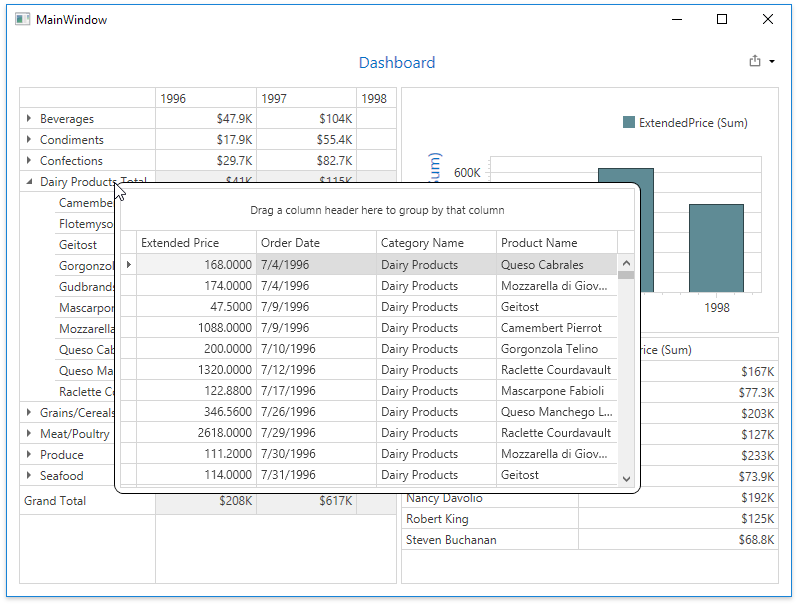
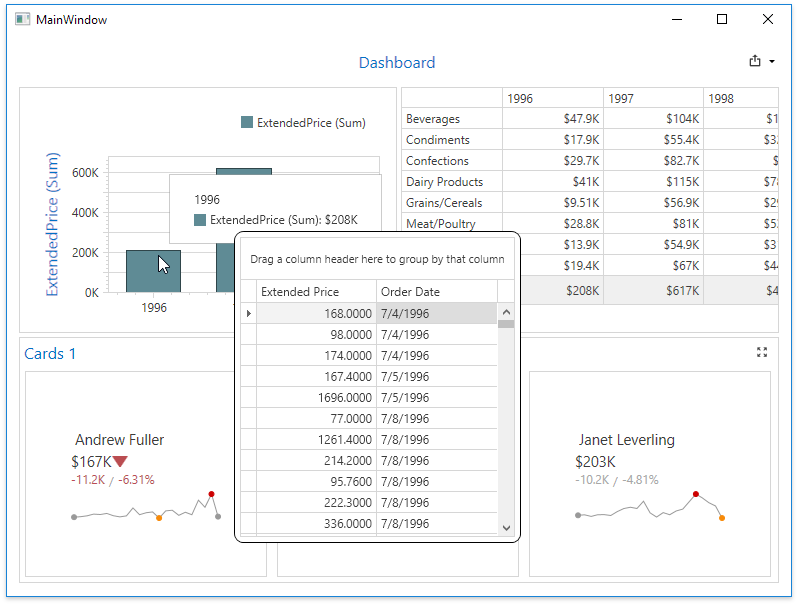
Dashboard update

diff --git a/CS/Dashboard_UnderlyingDataWPF/SalesDashboard.Designer.cs b/CS/Dashboard_UnderlyingDataWPF/SalesDashboard.Designer.cs
@@ -31,36 +31,39 @@
             DevExpress.DashboardCommon.Dimension dimension1 = new DevExpress.DashboardCommon.Dimension();
             DevExpress.DashboardCommon.Measure measure1 = new DevExpress.DashboardCommon.Measure();
             DevExpress.DashboardCommon.Dimension dimension2 = new DevExpress.DashboardCommon.Dimension();
+            DevExpress.DashboardCommon.CalculatedField calculatedField1 = new DevExpress.DashboardCommon.CalculatedField();
             DevExpress.DashboardCommon.Dimension dimension3 = new DevExpress.DashboardCommon.Dimension();
-            DevExpress.DashboardCommon.Dimension dimension4 = new DevExpress.DashboardCommon.Dimension();
             DevExpress.DashboardCommon.Measure measure2 = new DevExpress.DashboardCommon.Measure();
             DevExpress.DashboardCommon.ChartPane chartPane1 = new DevExpress.DashboardCommon.ChartPane();
             DevExpress.DashboardCommon.SimpleSeries simpleSeries1 = new DevExpress.DashboardCommon.SimpleSeries();
-            DevExpress.DashboardCommon.Dimension dimension5 = new DevExpress.DashboardCommon.Dimension();
-            DevExpress.DashboardCommon.GridDimensionColumn gridDimensionColumn1 = new DevExpress.DashboardCommon.GridDimensionColumn();
             DevExpress.DashboardCommon.Measure measure3 = new DevExpress.DashboardCommon.Measure();
-            DevExpress.DashboardCommon.GridMeasureColumn gridMeasureColumn1 = new DevExpress.DashboardCommon.GridMeasureColumn();
+            DevExpress.DashboardCommon.Measure measure4 = new DevExpress.DashboardCommon.Measure();
+            DevExpress.DashboardCommon.Card card1 = new DevExpress.DashboardCommon.Card();
+            DevExpress.DashboardCommon.CardCompactLayoutTemplate cardCompactLayoutTemplate1 = new DevExpress.DashboardCommon.CardCompactLayoutTemplate();
+            DevExpress.DashboardCommon.Dimension dimension4 = new DevExpress.DashboardCommon.Dimension();
+            DevExpress.DashboardCommon.Dimension dimension5 = new DevExpress.DashboardCommon.Dimension();
             DevExpress.DashboardCommon.DashboardLayoutGroup dashboardLayoutGroup1 = new DevExpress.DashboardCommon.DashboardLayoutGroup();
-            DevExpress.DashboardCommon.DashboardLayoutItem dashboardLayoutItem1 = new DevExpress.DashboardCommon.DashboardLayoutItem();
             DevExpress.DashboardCommon.DashboardLayoutGroup dashboardLayoutGroup2 = new DevExpress.DashboardCommon.DashboardLayoutGroup();
+            DevExpress.DashboardCommon.DashboardLayoutItem dashboardLayoutItem1 = new DevExpress.DashboardCommon.DashboardLayoutItem();
             DevExpress.DashboardCommon.DashboardLayoutItem dashboardLayoutItem2 = new DevExpress.DashboardCommon.DashboardLayoutItem();
             DevExpress.DashboardCommon.DashboardLayoutItem dashboardLayoutItem3 = new DevExpress.DashboardCommon.DashboardLayoutItem();
             this.pivotDashboardItem1 = new DevExpress.DashboardCommon.PivotDashboardItem();
             this.dashboardExtractDataSource1 = new DevExpress.DashboardCommon.DashboardExtractDataSource();
             this.chartDashboardItem1 = new DevExpress.DashboardCommon.ChartDashboardItem();
-            this.gridDashboardItem1 = new DevExpress.DashboardCommon.GridDashboardItem();
+            this.cardDashboardItem1 = new DevExpress.DashboardCommon.CardDashboardItem();
             ((System.ComponentModel.ISupportInitialize)(this.pivotDashboardItem1)).BeginInit();
             ((System.ComponentModel.ISupportInitialize)(dimension1)).BeginInit();
             ((System.ComponentModel.ISupportInitialize)(measure1)).BeginInit();
             ((System.ComponentModel.ISupportInitialize)(dimension2)).BeginInit();
-            ((System.ComponentModel.ISupportInitialize)(dimension3)).BeginInit();
             ((System.ComponentModel.ISupportInitialize)(this.dashboardExtractDataSource1)).BeginInit();
             ((System.ComponentModel.ISupportInitialize)(this.chartDashboardItem1)).BeginInit();
-            ((System.ComponentModel.ISupportInitialize)(dimension4)).BeginInit();
+            ((System.ComponentModel.ISupportInitialize)(dimension3)).BeginInit();
             ((System.ComponentModel.ISupportInitialize)(measure2)).BeginInit();
-            ((System.ComponentModel.ISupportInitialize)(this.gridDashboardItem1)).BeginInit();
-            ((System.ComponentModel.ISupportInitialize)(dimension5)).BeginInit();
+            ((System.ComponentModel.ISupportInitialize)(this.cardDashboardItem1)).BeginInit();
             ((System.ComponentModel.ISupportInitialize)(measure3)).BeginInit();
+            ((System.ComponentModel.ISupportInitialize)(measure4)).BeginInit();
+            ((System.ComponentModel.ISupportInitialize)(dimension4)).BeginInit();
+            ((System.ComponentModel.ISupportInitialize)(dimension5)).BeginInit();
             ((System.ComponentModel.ISupportInitialize)(this)).BeginInit();
             // 
             // pivotDashboardItem1
@@ -71,40 +74,41 @@
             this.pivotDashboardItem1.ComponentName = "pivotDashboardItem1";
             measure1.DataMember = "ExtendedPrice";
             dimension2.DataMember = "CategoryName";
-            dimension3.DataMember = "ProductName";
             this.pivotDashboardItem1.DataItemRepository.Clear();
             this.pivotDashboardItem1.DataItemRepository.Add(measure1, "DataItem0");
             this.pivotDashboardItem1.DataItemRepository.Add(dimension1, "DataItem1");
             this.pivotDashboardItem1.DataItemRepository.Add(dimension2, "DataItem2");
-            this.pivotDashboardItem1.DataItemRepository.Add(dimension3, "DataItem3");
             this.pivotDashboardItem1.DataSource = this.dashboardExtractDataSource1;
             this.pivotDashboardItem1.InteractivityOptions.IgnoreMasterFilters = false;
             this.pivotDashboardItem1.LayoutType = DevExpress.DashboardCommon.PivotLayoutType.Compact;
             this.pivotDashboardItem1.Name = "Pivot 1";
             this.pivotDashboardItem1.Rows.AddRange(new DevExpress.DashboardCommon.Dimension[] {
-            dimension2,
-            dimension3});
+            dimension2});
             this.pivotDashboardItem1.ShowCaption = false;
             this.pivotDashboardItem1.Values.AddRange(new DevExpress.DashboardCommon.Measure[] {
             measure1});
             // 
             // dashboardExtractDataSource1
             // 
+            calculatedField1.Expression = "[Quantity] * [UnitPrice]";
+            calculatedField1.Name = "RegularPrice";
+            this.dashboardExtractDataSource1.CalculatedFields.AddRange(new DevExpress.DashboardCommon.CalculatedField[] {
+            calculatedField1});
             this.dashboardExtractDataSource1.ComponentName = "dashboardExtractDataSource1";
             this.dashboardExtractDataSource1.FileName = "|DataDirectory|\\Data\\NWind_SalesPerson.dat";
             this.dashboardExtractDataSource1.Name = "Extract Data Source 1";
             // 
             // chartDashboardItem1
             // 
-            dimension4.DataMember = "OrderDate";
+            dimension3.DataMember = "OrderDate";
             this.chartDashboardItem1.Arguments.AddRange(new DevExpress.DashboardCommon.Dimension[] {
-            dimension4});
+            dimension3});
             this.chartDashboardItem1.AxisX.TitleVisible = false;
             this.chartDashboardItem1.ComponentName = "chartDashboardItem1";
             measure2.DataMember = "ExtendedPrice";
             this.chartDashboardItem1.DataItemRepository.Clear();
             this.chartDashboardItem1.DataItemRepository.Add(measure2, "DataItem0");
-            this.chartDashboardItem1.DataItemRepository.Add(dimension4, "DataItem1");
+            this.chartDashboardItem1.DataItemRepository.Add(dimension3, "DataItem1");
             this.chartDashboardItem1.DataSource = this.dashboardExtractDataSource1;
             this.chartDashboardItem1.InteractivityOptions.IgnoreMasterFilters = false;
             this.chartDashboardItem1.Name = "Chart 1";
@@ -122,25 +126,60 @@
             chartPane1});
             this.chartDashboardItem1.ShowCaption = false;
             // 
-            // gridDashboardItem1
+            // cardDashboardItem1
             // 
-            dimension5.DataMember = "SalesPerson";
-            gridDimensionColumn1.WidthType = DevExpress.DashboardCommon.GridColumnFixedWidthType.Weight;
-            gridDimensionColumn1.AddDataItem("Dimension", dimension5);
             measure3.DataMember = "ExtendedPrice";
-            gridMeasureColumn1.WidthType = DevExpress.DashboardCommon.GridColumnFixedWidthType.Weight;
-            gridMeasureColumn1.AddDataItem("Measure", measure3);
-            this.gridDashboardItem1.Columns.AddRange(new DevExpress.DashboardCommon.GridColumnBase[] {
-            gridDimensionColumn1,
-            gridMeasureColumn1});
-            this.gridDashboardItem1.ComponentName = "gridDashboardItem1";
-            this.gridDashboardItem1.DataItemRepository.Clear();
-            this.gridDashboardItem1.DataItemRepository.Add(measure3, "DataItem1");
-            this.gridDashboardItem1.DataItemRepository.Add(dimension5, "DataItem0");
-            this.gridDashboardItem1.DataSource = this.dashboardExtractDataSource1;
-            this.gridDashboardItem1.InteractivityOptions.IgnoreMasterFilters = false;
-            this.gridDashboardItem1.Name = "Grid 1";
-            this.gridDashboardItem1.ShowCaption = false;
+            measure4.DataMember = "RegularPrice";
+            card1.DeltaOptions.ResultIndicationThreshold = new decimal(new int[] {
+            5,
+            0,
+            0,
+            0});
+            card1.LayoutDeltaOptions.ResultIndicationThreshold = new decimal(new int[] {
+            5,
+            0,
+            0,
+            0});
+            cardCompactLayoutTemplate1.BottomSubValue1.DimensionIndex = 0;
+            cardCompactLayoutTemplate1.BottomSubValue1.ValueType = DevExpress.DashboardCommon.CardRowDataElementType.AbsoluteVariation;
+            cardCompactLayoutTemplate1.BottomSubValue1.Visible = true;
+            cardCompactLayoutTemplate1.BottomSubValue2.DimensionIndex = 0;
+            cardCompactLayoutTemplate1.BottomSubValue2.ValueType = DevExpress.DashboardCommon.CardRowDataElementType.PercentVariation;
+            cardCompactLayoutTemplate1.BottomSubValue2.Visible = true;
+            cardCompactLayoutTemplate1.BottomValue.DimensionIndex = 0;
+            cardCompactLayoutTemplate1.BottomValue.ValueType = DevExpress.DashboardCommon.CardRowDataElementType.ActualValue;
+            cardCompactLayoutTemplate1.BottomValue.Visible = true;
+            cardCompactLayoutTemplate1.DeltaIndicator.Visible = true;
+            cardCompactLayoutTemplate1.MainValue.DimensionIndex = 0;
+            cardCompactLayoutTemplate1.MainValue.ValueType = DevExpress.DashboardCommon.CardRowDataElementType.Title;
+            cardCompactLayoutTemplate1.MainValue.Visible = true;
+            cardCompactLayoutTemplate1.MaxWidth = 150;
+            cardCompactLayoutTemplate1.MinWidth = 125;
+            cardCompactLayoutTemplate1.Sparkline.Visible = true;
+            cardCompactLayoutTemplate1.SubValue.DimensionIndex = 0;
+            cardCompactLayoutTemplate1.SubValue.ValueType = DevExpress.DashboardCommon.CardRowDataElementType.Subtitle;
+            cardCompactLayoutTemplate1.SubValue.Visible = true;
+            card1.LayoutTemplate = cardCompactLayoutTemplate1;
+            card1.AddDataItem("ActualValue", measure3);
+            card1.AddDataItem("TargetValue", measure4);
+            this.cardDashboardItem1.Cards.AddRange(new DevExpress.DashboardCommon.Card[] {
+            card1});
+            this.cardDashboardItem1.ComponentName = "cardDashboardItem1";
+            dimension4.DataMember = "SalesPerson";
+            dimension5.DataMember = "OrderDate";
+            dimension5.DateTimeGroupInterval = DevExpress.DashboardCommon.DateTimeGroupInterval.MonthYear;
+            this.cardDashboardItem1.DataItemRepository.Clear();
+            this.cardDashboardItem1.DataItemRepository.Add(measure4, "DataItem0");
+            this.cardDashboardItem1.DataItemRepository.Add(measure3, "DataItem1");
+            this.cardDashboardItem1.DataItemRepository.Add(dimension4, "DataItem3");
+            this.cardDashboardItem1.DataItemRepository.Add(dimension5, "DataItem2");
+            this.cardDashboardItem1.DataSource = this.dashboardExtractDataSource1;
+            this.cardDashboardItem1.InteractivityOptions.IgnoreMasterFilters = false;
+            this.cardDashboardItem1.Name = "Cards 1";
+            this.cardDashboardItem1.SeriesDimensions.AddRange(new DevExpress.DashboardCommon.Dimension[] {
+            dimension4});
+            this.cardDashboardItem1.ShowCaption = true;
+            this.cardDashboardItem1.SparklineArgument = dimension5;
             // 
             // SalesDashboard
             // 
@@ -148,38 +187,39 @@
             this.dashboardExtractDataSource1});
             this.Items.AddRange(new DevExpress.DashboardCommon.DashboardItem[] {
             this.pivotDashboardItem1,
-            this.gridDashboardItem1,
-            this.chartDashboardItem1});
-            dashboardLayoutItem1.DashboardItem = this.pivotDashboardItem1;
-            dashboardLayoutItem1.Weight = 49.921752738654149D;
-            dashboardLayoutItem2.DashboardItem = this.chartDashboardItem1;
-            dashboardLayoutItem2.Weight = 49.876543209876544D;
-            dashboardLayoutItem3.DashboardItem = this.gridDashboardItem1;
-            dashboardLayoutItem3.Weight = 50.123456790123456D;
+            this.chartDashboardItem1,
+            this.cardDashboardItem1});
+            dashboardLayoutItem1.DashboardItem = this.chartDashboardItem1;
+            dashboardLayoutItem1.Weight = 50D;
+            dashboardLayoutItem2.DashboardItem = this.pivotDashboardItem1;
+            dashboardLayoutItem2.Weight = 50D;
             dashboardLayoutGroup2.ChildNodes.AddRange(new DevExpress.DashboardCommon.DashboardLayoutNode[] {
-            dashboardLayoutItem2,
-            dashboardLayoutItem3});
-            dashboardLayoutGroup2.DashboardItem = null;
-            dashboardLayoutGroup2.Orientation = DevExpress.DashboardCommon.DashboardLayoutGroupOrientation.Vertical;
-            dashboardLayoutGroup2.Weight = 50.078247261345851D;
-            dashboardLayoutGroup1.ChildNodes.AddRange(new DevExpress.DashboardCommon.DashboardLayoutNode[] {
             dashboardLayoutItem1,
-            dashboardLayoutGroup2});
+            dashboardLayoutItem2});
+            dashboardLayoutGroup2.DashboardItem = null;
+            dashboardLayoutGroup2.Weight = 50D;
+            dashboardLayoutItem3.DashboardItem = this.cardDashboardItem1;
+            dashboardLayoutItem3.Weight = 50D;
+            dashboardLayoutGroup1.ChildNodes.AddRange(new DevExpress.DashboardCommon.DashboardLayoutNode[] {
+            dashboardLayoutGroup2,
+            dashboardLayoutItem3});
             dashboardLayoutGroup1.DashboardItem = null;
+            dashboardLayoutGroup1.Orientation = DevExpress.DashboardCommon.DashboardLayoutGroupOrientation.Vertical;
             this.LayoutRoot = dashboardLayoutGroup1;
             this.Title.Text = "Dashboard";
             ((System.ComponentModel.ISupportInitialize)(dimension1)).EndInit();
             ((System.ComponentModel.ISupportInitialize)(measure1)).EndInit();
             ((System.ComponentModel.ISupportInitialize)(dimension2)).EndInit();
-            ((System.ComponentModel.ISupportInitialize)(dimension3)).EndInit();
             ((System.ComponentModel.ISupportInitialize)(this.pivotDashboardItem1)).EndInit();
             ((System.ComponentModel.ISupportInitialize)(this.dashboardExtractDataSource1)).EndInit();
-            ((System.ComponentModel.ISupportInitialize)(dimension4)).EndInit();
+            ((System.ComponentModel.ISupportInitialize)(dimension3)).EndInit();
             ((System.ComponentModel.ISupportInitialize)(measure2)).EndInit();
             ((System.ComponentModel.ISupportInitialize)(this.chartDashboardItem1)).EndInit();
-            ((System.ComponentModel.ISupportInitialize)(dimension5)).EndInit();
             ((System.ComponentModel.ISupportInitialize)(measure3)).EndInit();
-            ((System.ComponentModel.ISupportInitialize)(this.gridDashboardItem1)).EndInit();
+            ((System.ComponentModel.ISupportInitialize)(measure4)).EndInit();
+            ((System.ComponentModel.ISupportInitialize)(dimension4)).EndInit();
+            ((System.ComponentModel.ISupportInitialize)(dimension5)).EndInit();
+            ((System.ComponentModel.ISupportInitialize)(this.cardDashboardItem1)).EndInit();
             ((System.ComponentModel.ISupportInitialize)(this)).EndInit();
 
         }
@@ -188,7 +228,7 @@
 
         private DevExpress.DashboardCommon.DashboardExtractDataSource dashboardExtractDataSource1;
         private DevExpress.DashboardCommon.PivotDashboardItem pivotDashboardItem1;
-        private DevExpress.DashboardCommon.GridDashboardItem gridDashboardItem1;
         private DevExpress.DashboardCommon.ChartDashboardItem chartDashboardItem1;
+        private DevExpress.DashboardCommon.CardDashboardItem cardDashboardItem1;
     }
 }
